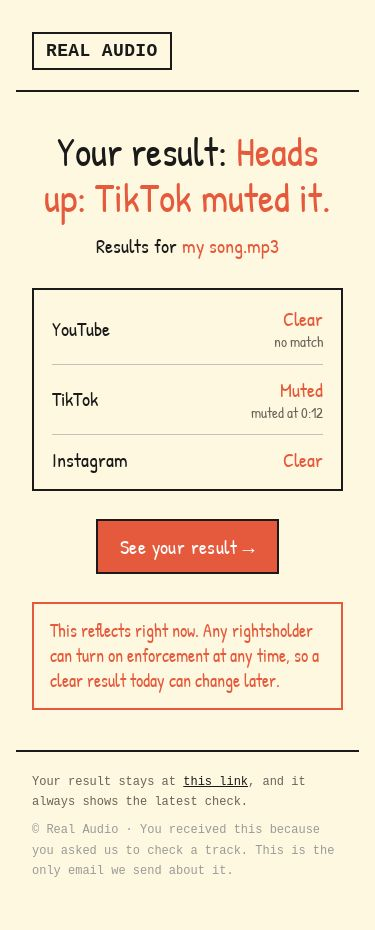
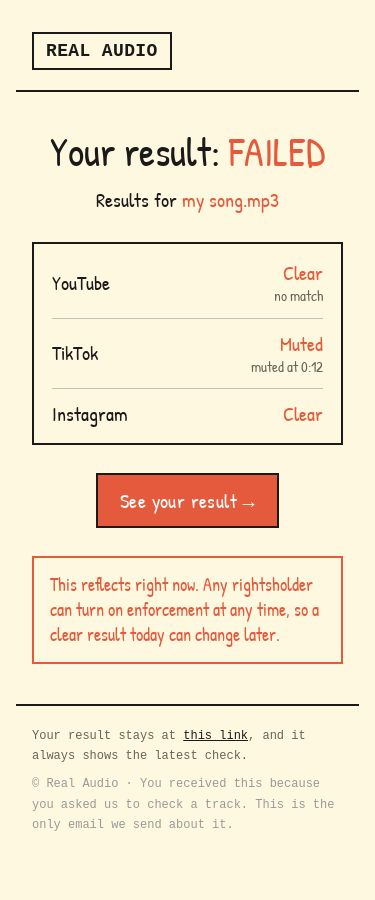
MS-004 fix (Reject2): headline reads "Your result:" + red PASSED / FAILED
One line: "Your result:" in brand black, then PASSED (all three clear) or
FAILED (anything flagged) in brand red, on the result page and the results
email headline (verdictFor().headline, shared). Nothing else changed.
result.js cache-bust ms004-r3; e2e + screenshots updated.

diff --git a/clearance-check/src/email.js b/clearance-check/src/email.js
@@ -67,7 +67,7 @@ export function buildEmail(row, link) {
             <tr><td style="height:2px;background:${INK};"></td></tr>
             <tr>
               <td align="center" style="padding:36px 16px 8px 16px;font-family:${DRAWN};">
-                <div style="font-size:40px;line-height:1.15;color:${INK};">Your result: <span style="color:${RED};">${esc(v.text)}</span></div>
+                <div style="font-size:40px;line-height:1.15;color:${INK};">Your result: <span style="color:${RED};">${esc(v.headline)}</span></div>
                 <div style="font-size:20px;line-height:1.4;margin-top:12px;color:${INK};">Results for <span style="color:${RED};">${esc(name)}</span></div>
               </td>
             </tr>
@@ -112,7 +112,7 @@ export function buildEmail(row, link) {
 </html>`;
 
   const text = [
-    `Your result: ${v.text}`,
+    `Your result: ${v.headline}`,
     '',
     `Results for ${name}`,
     '',

diff --git a/clearance-check/public/lib.js b/clearance-check/public/lib.js
@@ -49,12 +49,13 @@ export function getConfig() {
 // Verdict copy, shared with the Worker's results email (src/email.js).
 export function verdictFor(row) {
   const flagged = PLATFORMS.filter((p) => row[`${p.key}_result`] !== 'clear');
-  if (flagged.length === 0) return { flagged: false, text: 'Looks clear on all three.' };
+  // headline: the red half of "Your result:" on the page and email (Reject2).
+  if (flagged.length === 0) return { flagged: false, headline: 'PASSED', text: 'Looks clear on all three.' };
   const parts = flagged.map((p) => {
     const r = row[`${p.key}_result`];
     return r === 'error' ? `${p.name} couldn’t be checked` : `${p.name} ${r} it`;
   });
-  return { flagged: true, text: `Heads up: ${joinList(parts)}.` };
+  return { flagged: true, headline: 'FAILED', text: `Heads up: ${joinList(parts)}.` };
 }
 
 function joinList(a) {

diff --git a/clearance-check/public/result.js b/clearance-check/public/result.js
@@ -56,7 +56,7 @@ function render(row) {
   const allIn = PLATFORMS.every((p) => row[`${p.key}_result`] !== 'pending');
   if (allIn) {
     const v = verdictFor(row);
-    verdict.textContent = v.text;
+    verdict.textContent = v.headline;
     verdict.dataset.flagged = String(v.flagged);
   } else {
     // Until all three are in, the red half of the headline is the progress.

diff --git a/clearance-check/public/r/index.html b/clearance-check/public/r/index.html
@@ -49,6 +49,6 @@
       </div>
     </main>
   </div>
-  <script src="/result.js?v=ms004-r2" type="module"></script>
+  <script src="/result.js?v=ms004-r3" type="module"></script>
 </body>
 </html>
